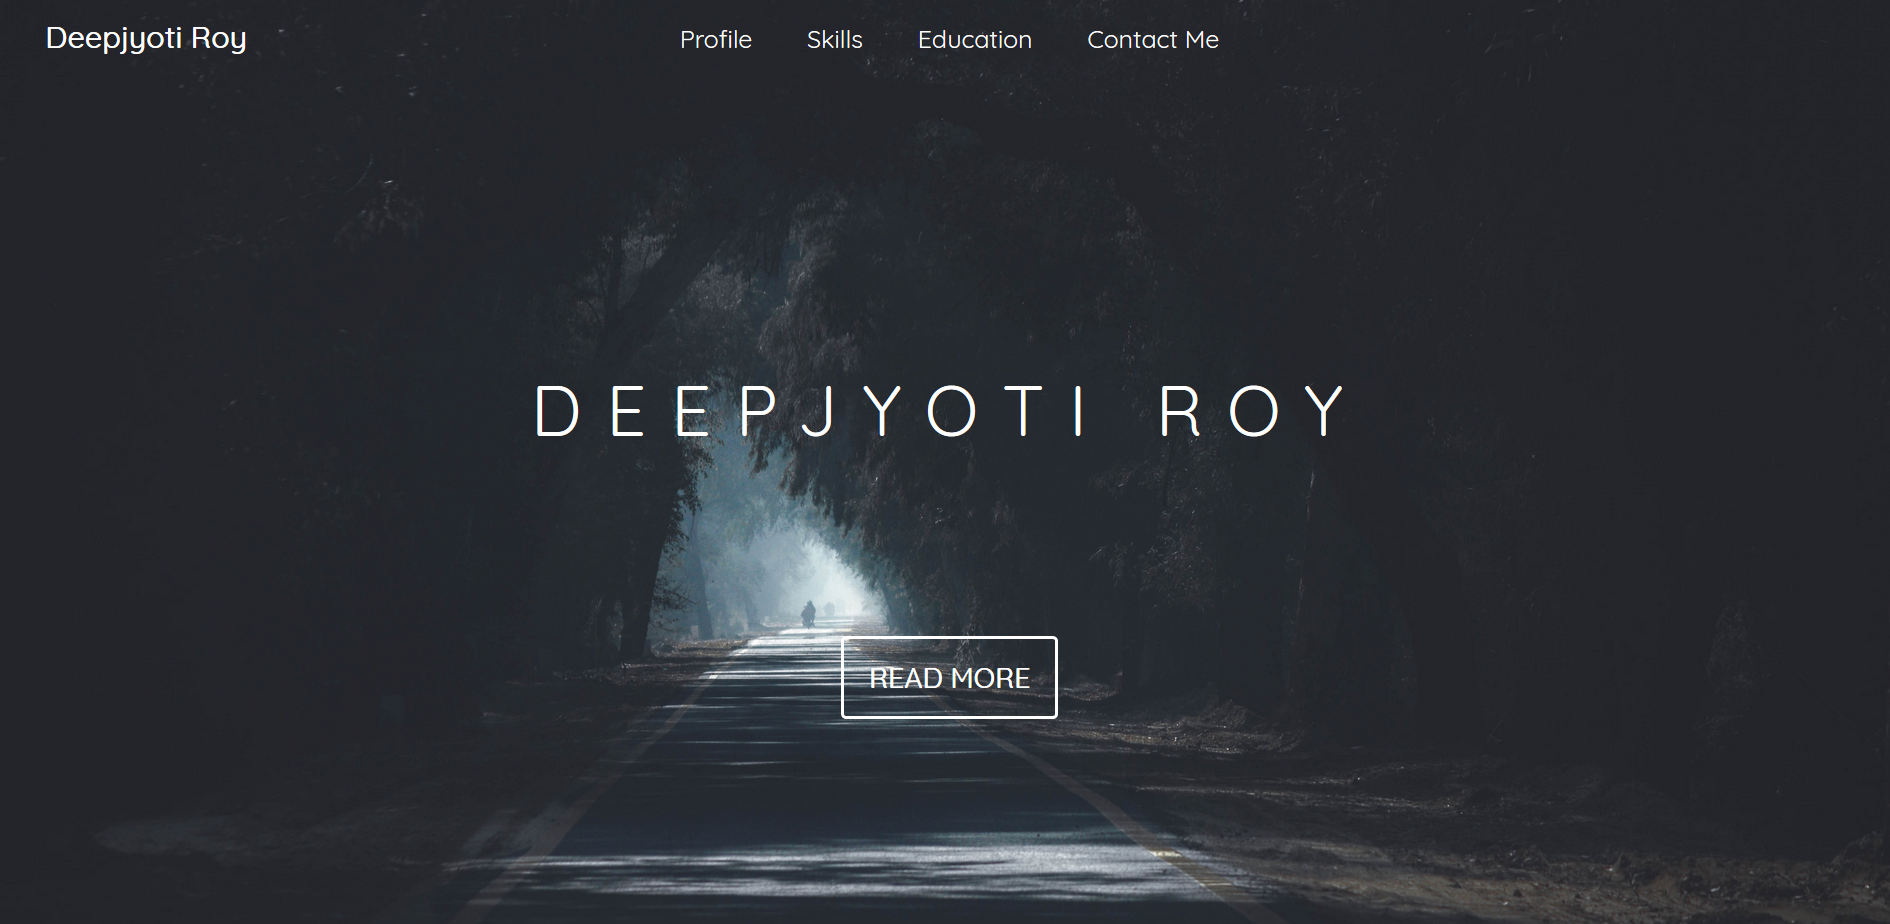
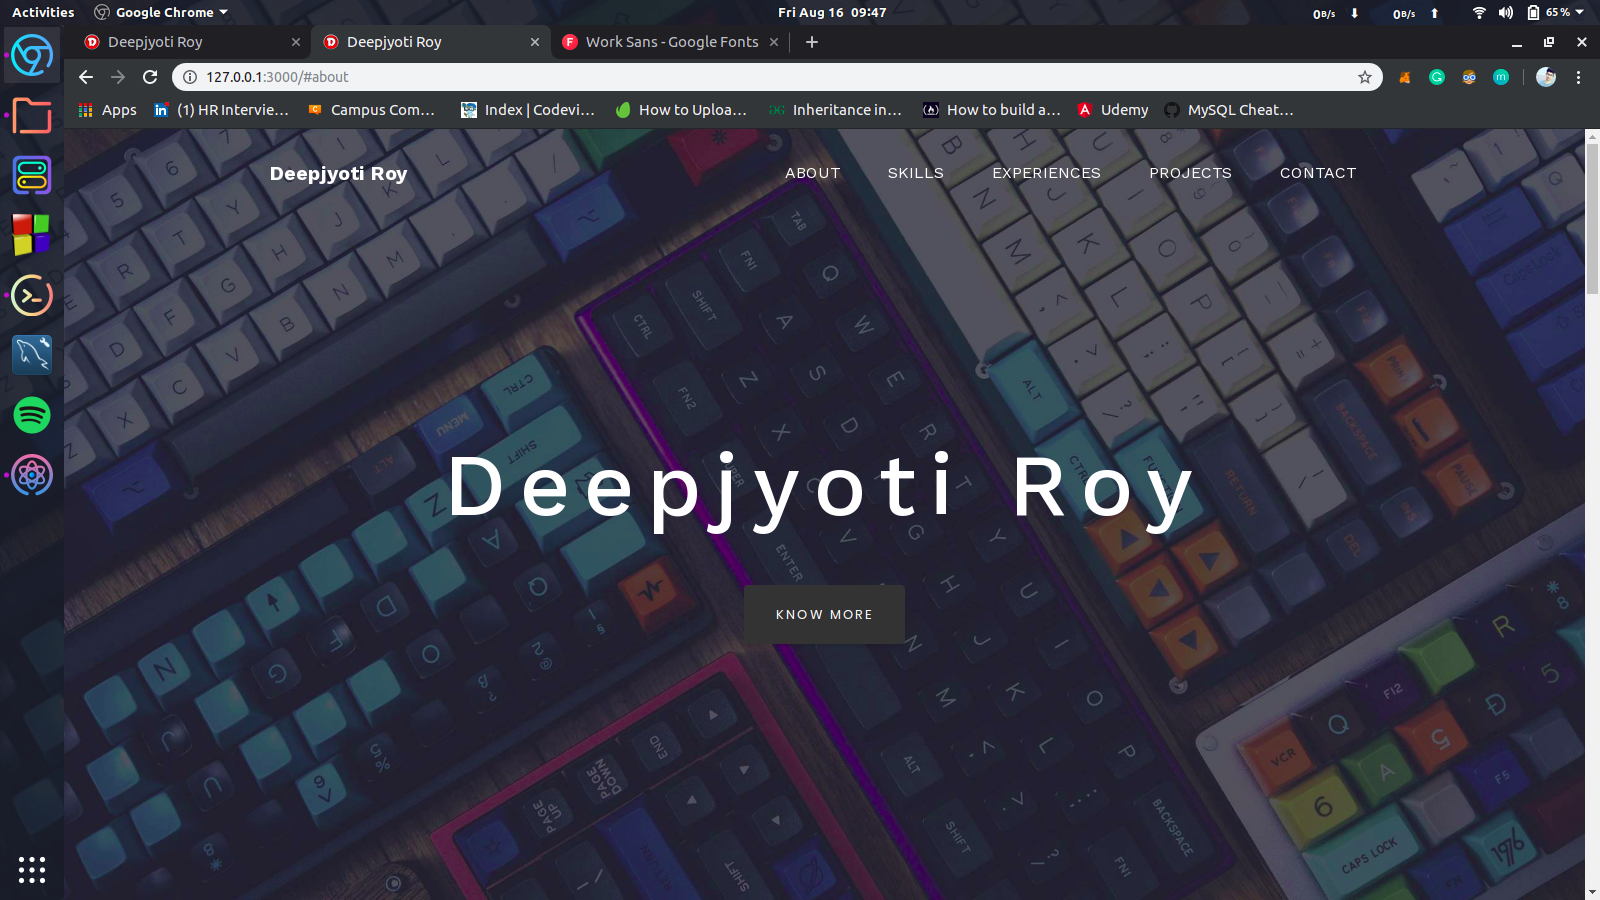
masthead background changed

diff --git a/index.html b/index.html
@@ -9,11 +9,11 @@
     <meta name="og:country-name" content="IN" />
     <meta name="viewport" content="width=device-width, initial-scale=1.0">
     <meta http-equiv="X-UA-Compatible" content="ie=edge">
-    
-    
+
+
     <meta name="og:type" content="Portfolio" />
     <meta name="og:url" content="https://deepjyotiroy079.github.io/" />
-    <meta name="og:image" content="https://deepjyotiroy079.github.io/images/profile.jpg" />
+    <meta name="og:image" content="https://deepjyotiroy079.github.io/images/profile1.jpeg" />
     <meta name="og:site_name" content="Deepjyoti Roy" />
 
     <link rel="shortcut icon" href="favicon.ico">
@@ -23,7 +23,9 @@
     <link rel="stylesheet" href="./css/navstyle.css">
     <title>Deepjyoti Roy</title>
 </head>
+
 <body id="page-top">
+    <div id="back-to-top"></div>
     <!-- Navigation -->
   <nav class="navbar navbar-expand-lg navbar-light fixed-top" id="mainNav">
     <div class="container">
@@ -61,15 +63,15 @@
         </div>
     </div>
     </header>
-    
+
     <section id="about" class="container text-center py-5">
         <div class="section-title text-center center">
             <h2 class="text-center">About Me </h2>
             <hr>
         </div>
-        <div class="row my-4">   
+        <div class="row my-4">
             <div class="col-sm-12 col-xs-12 col-md-4 col-lg-4">
-                <img src="./images/profile.jpg" class="profile img-fluid" alt="">
+                <img src="./images/profile1.jpeg" class="profile img-fluid" alt="">
             </div>
             <div class="col-sm-12 col-md-8 col-lg-8 text-left">
                <p class="lead font-weight-light">
@@ -92,7 +94,7 @@
             <p>"Every skill you acquire doubles your odds of success" <br> ― Scott Adams</p>
             <hr>
         </div>
-        
+
         <div class="row">
             <div class="col-md-5 col-sm-11 col-xs-11">
                 <h4 class="text-center">Concepts</h4><br>
@@ -160,7 +162,7 @@
                         </div>
                     </div>
                     <br>
-                    
+
                     <h4 class="text-center">Mobile App Development</h4><br>
                     <div class="row">
                         <div class="col-md-6 col-sm-6 col-xs-6 ">
@@ -312,7 +314,7 @@
                             </div>
                         </div>
                     </div>
-                    
+
                     <div class="row">
                         <div class="col-md-6 col-sm-6 col-xs-6 ">
                             <p> PHP </p>
@@ -373,7 +375,7 @@
             </div>
         </div>
     </section>
-    
+
     <section id="experience" class="container py-5">
         <div class="section-title text-center center">
             <h2 class="text-center">Experiences </h2>
@@ -391,23 +393,24 @@
             <div class="col-md-9 col-sm-11 col-xs-11 ">
                 <br>
                 <div class="row">
-                    <div class="col-md-8 col-sm-6 col-xs-6 ">
-                        <p>
+                    <div class="col-md-8 col-sm-6 col-xs-6">
+                       <p>
                             <strong>Bachelor's of Engineering - Information Technology</strong>
                             <br>R.G.P.V</p>
+
                     </div>
-                    <div class="col-md-4 col-sm-6 col-xs-6 ">
+                    <div class="col-md-4 col-sm-6 col-xs-6">
                         <p>2016 - current</p>
                     </div>
                 </div>
                 <br>
                 <div class="row">
-                    <div class="col-md-8 col-sm-6 col-xs-6 ">
+                    <div class="col-md-8 col-sm-6 col-xs-6">
                         <p>
                             <strong>High School- Maths &amp; Science (75.2%)</strong>
                             <br> Central Board of Secondary Education</p>
                     </div>
-                    <div class="col-md-4 col-sm-6 col-xs-6 ">
+                    <div class="col-md-4 col-sm-6 col-xs-6">
                         <p>2014-2016</p>
                     </div>
                 </div>
@@ -415,27 +418,27 @@
         </div>
         <br>
         <div class="row wow fadeInDown " data-wow-delay="200ms">
-            <div class="col-md-2 col-sm-11 col-xs-11 ">
+            <div class="col-md-2 col-sm-11 col-xs-11">
                 <h4 class="text-center">
                     Activities
                 </h4>
             </div>
-            <div class="col-md-9 col-sm-11 col-xs-11 ">
+            <div class="col-md-9 col-sm-11 col-xs-11">
                 <br>
                 <div class="row">
-                    <div class="col-md-8 col-sm-6 col-xs-6 ">
+                    <div class="col-md-8 col-sm-6 col-xs-6">
                         <p>
                             <strong>Campus Ambassador</strong>
                             <br>Coding Blocks</p>
                     </div>
-                    <div class="col-md-4 col-sm-6 col-xs-6 ">
+                    <div class="col-md-4 col-sm-6 col-xs-6">
                         <p>Apr 2019 - current</p>
                     </div>
                 </div>
             </div>
-        </div>      
+        </div>
     </section>
-    
+
 
     <section id="projects" class="container py-5">
         <div class="section-title text-center center">
@@ -454,7 +457,7 @@
                         <div class="btn-group">
                             <button type="button" class="btn btn-sm btn-outline-secondary" data-toggle="modal" data-target="#project_1" >Details</button>
                         </div>
-    
+
                         <!-- Modal -->
                         <div class="modal fade" id="project_1" tabindex="-1" role="dialog" aria-labelledby="exampleModalCenterTitle" aria-hidden="true">
                             <div class="modal-dialog modal-dialog-centered" role="document">
@@ -491,7 +494,7 @@
                         <div class="btn-group">
                         <button type="button" class="btn btn-sm btn-outline-secondary" data-toggle="modal" data-target="#project_2">Details</button>
                         </div>
-    
+
                         <!-- Modal -->
                         <div class="modal fade" id="project_2" tabindex="-1" role="dialog" aria-labelledby="exampleModalCenterTitle" aria-hidden="true">
                             <div class="modal-dialog modal-dialog-centered" role="document">
@@ -559,7 +562,7 @@
                 </div>
               </div>
             </div>
-        </div> 
+        </div>
     </section>
 
     <section id="connect" class="container py-5">

diff --git a/css/navstyle.css b/css/navstyle.css
@@ -3,30 +3,30 @@
     min-height: 56px;
     background-color: #fff;
   }
-  
+
   #mainNav .navbar-toggler {
     font-size: 80%;
     padding: 0.75rem;
     color: #64a19d;
     border: 1px solid #64a19d;
   }
-  
+
   #mainNav .navbar-toggler:focus {
     outline: none;
   }
-  
+
   #mainNav .navbar-brand {
     color: #161616;
     font-weight: 700;
     padding: .9rem 0;
   }
-  
+
   #mainNav .navbar-nav .nav-item:hover {
     color: #fff;
     outline: none;
     background-color: transparent;
   }
-  
+
   #mainNav .navbar-nav .nav-item:active, #mainNav .navbar-nav .nav-item:focus {
     outline: none;
     background-color: transparent;
@@ -80,39 +80,39 @@
       border-bottom: 0.25rem solid #64a19d;
     }
   }
-  
+
   .masthead {
     position: relative;
     width: 100%;
     height: auto;
     min-height: 35rem;
     padding: 15rem 0;
-    background-color: #111;
+    background-image: url('../images/masthead-background.jpg');
     background-position: center;
     background-repeat: no-repeat;
     background-attachment: scroll;
     background-size: cover;
   }
-  
+
   .masthead h1 {
     font-size: 1.5rem;
     line-height: 1.5rem;
     letter-spacing: 0.8rem;
     color: #fff;
   }
-  
+
   .masthead h2 {
     max-width: 20rem;
     font-size: 1rem;
   }
-  
+
   @media (min-width: 768px) {
     .masthead h1 {
       font-size: 4rem;
       line-height: 4rem;
     }
   }
-  
+
   @media (min-width: 992px) {
     .masthead {
       height: 100vh;
@@ -128,7 +128,7 @@
       font-size: 1.25rem;
     }
   }
-  
+
   .btn {
     -webkit-box-shadow: 0 0.1875rem 0.1875rem 0 rgba(0, 0, 0, 0.1) !important;
     box-shadow: 0 0.1875rem 0.1875rem 0 rgba(0, 0, 0, 0.1) !important;
@@ -139,21 +139,20 @@
     letter-spacing: .15rem;
     border: 0;
   }
-  
+
   .btn-primary {
     background-color: #333;
   }
-  
+
   .btn-primary:hover {
     background-color: #4f837f;
   }
-  
+
   .btn-primary:focus {
     background-color: #4f837f;
     color: white;
   }
-  
+
   .btn-primary:active {
     background-color: #467370 !important;
   }
-  

diff --git a/css/style.css b/css/style.css
@@ -1,10 +1,10 @@
-@import url('https://fonts.googleapis.com/css?family=Poppins&display=swap');
+@import url('https://fonts.googleapis.com/css?family=Work+Sans&display=swap');
 html {
     scroll-behavior: smooth;
     scroll-padding-block-start: 100px;
 }
 body {
-    font-family: 'Poppins', sans-serif;
+    font-family: 'Work Sans', sans-serif;
 }
 .profile {
     width: 150px;
@@ -30,6 +30,7 @@ i:hover{
 #copy {
     margin: 15px auto;
 }
+
 @media (min-width: 576px) {
     hr {
         width: 70%;
